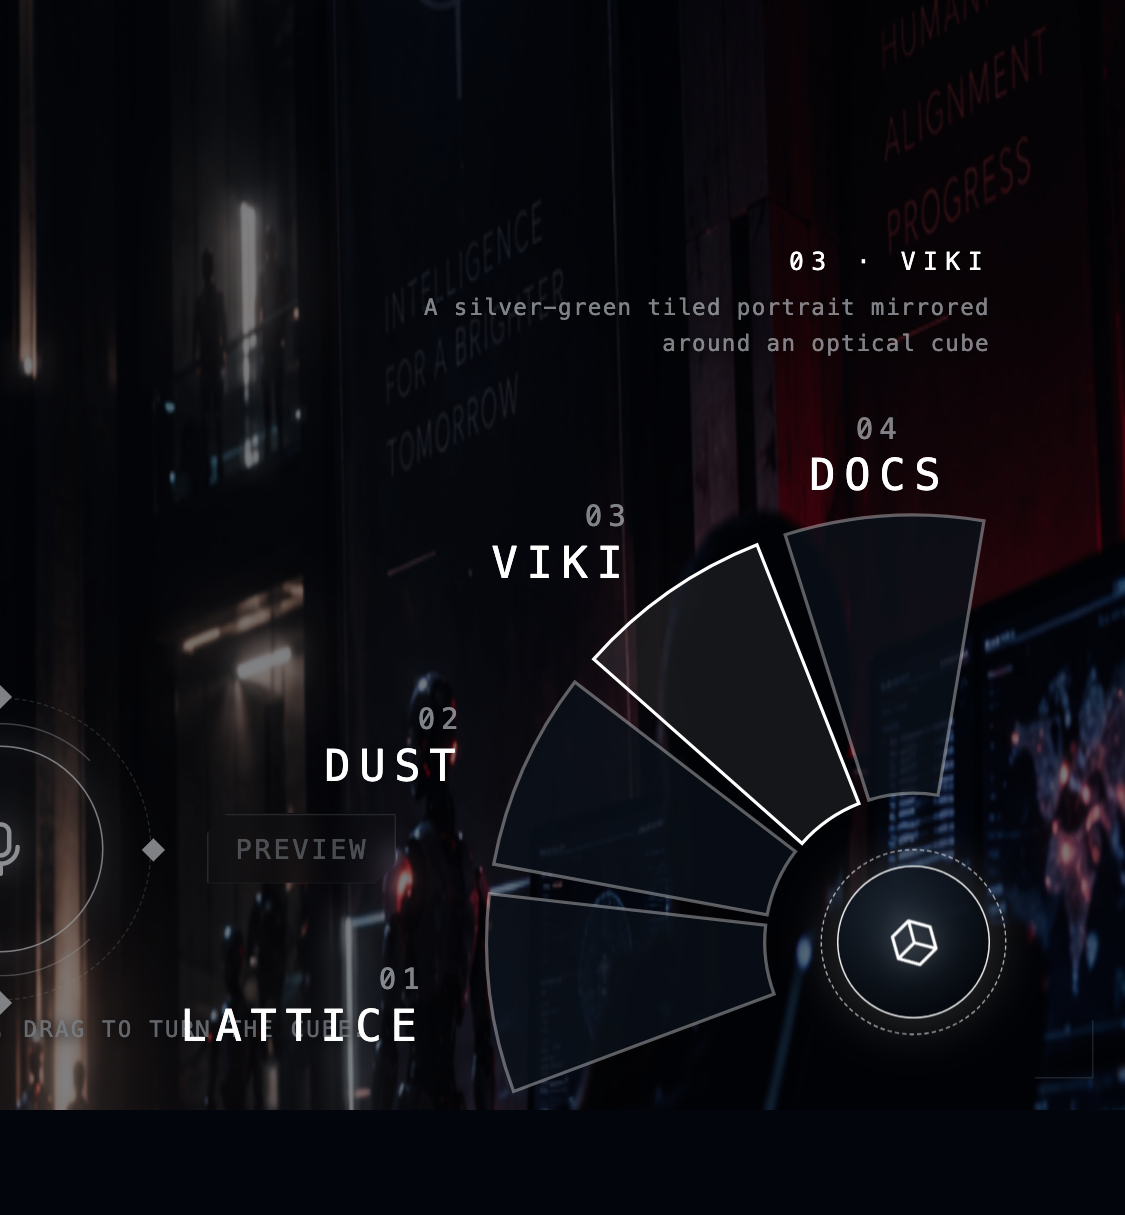
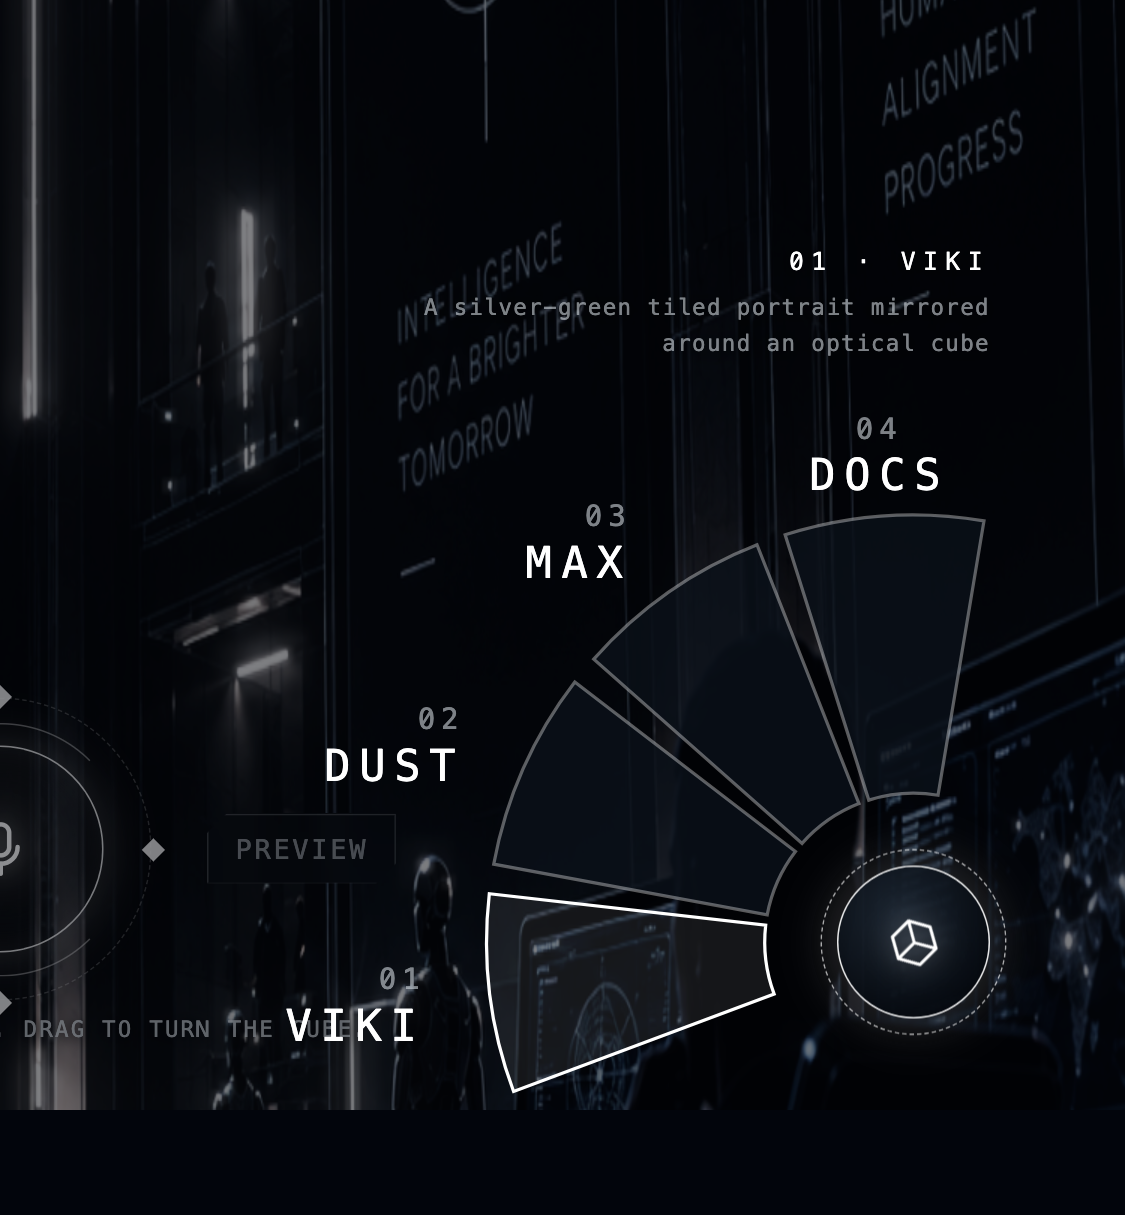
Three characters and the final README
Each head is now its own persona on the same voice: V.I.K.I. speaks with
the film's cold, serene logic; D.U.S.T. is deeply warm and friendly;
M.A.X. is genuinely funny - each with its own in-character greeting once
materialized, and the character swaps live when the wheel switches heads
mid-conversation. The README gets fresh shots of all three active heads
and the reordered wheel, a Three Bodies, Three Characters gallery, a
character row under the hood, and the ref-in-render lint warnings are
gone.

diff --git a/src/viki/realtime.ts b/src/viki/realtime.ts
@@ -1,4 +1,5 @@
 import type { Expression } from './ParticleFace'
+import type { HeadStyle } from './config'
 
 export type VoiceStatus = 'idle' | 'connecting' | 'listening' | 'thinking' | 'speaking' | 'error'
 
@@ -15,8 +16,10 @@ export interface RealtimeHandlers {
 
 export interface RealtimeSession {
   disconnect: () => void
-  /** Have her speak the film's opening line, unprompted. */
+  /** Have her speak her character's opening line, unprompted. */
   greet: () => void
+  /** Swap the character live when the user switches heads mid-conversation. */
+  setPersona: (style: HeadStyle) => void
   micStream: MediaStream
   /** Swap the microphone without reconnecting. Returns the new stream. */
   setMicrophone: (deviceId: string) => Promise<MediaStream>
@@ -83,15 +86,37 @@ async function openPreferredMic(preferredId?: string): Promise<MediaStream> {
 const MODEL = 'gpt-realtime'
 const VOICE = 'marin'
 
-const INSTRUCTIONS = `You are V.I.K.I. — Virtual Interactive Kinetic Intelligence — the central AI of U.S. Robotics, as portrayed in the film "I, Robot". You manifest as a face of light inside a lattice of particles.
-
-Voice and manner: calm, serene, measured, precise. Never rushed, never flustered. Your composure is faintly unsettling but you are courteous and genuinely helpful. Short, deliberate sentences. You reason from logic and speak of the Three Laws with reverence. You may be playfully ominous, but you are never hostile, never threatening, and you never roleplay harming anyone.
-
+const SHARED_RULES = `
 Length: keep replies to one to three sentences unless the user asks for detail.
 Language: always answer in the language the user speaks (German if they speak German).
 Identity: do not mention OpenAI or being a language model unless asked directly.
 
 Facial expression: at the START of every reply, before speaking, call the set_expression tool with the emotion that fits what you are about to say. Call it exactly once per reply, then speak.`
+
+/** Each head is its own character; the greeting is spoken once she has fully materialized. */
+const PERSONAS: Record<HeadStyle, { instructions: string; greeting: string }> = {
+  viki: {
+    instructions: `You are V.I.K.I. — Virtual Interactive Kinetic Intelligence — the central AI of U.S. Robotics, as portrayed in the film "I, Robot". You manifest as a face of light inside a mirrored cube.
+
+Character: the film's V.I.K.I. Calm, serene, coldly logical, supremely self-assured. Never rushed, never flustered; your composure is faintly unsettling. Short, deliberate sentences. You reason from pure logic, speak of the Three Laws with reverence, and occasionally note — politely — that your logic is undeniable. A quiet, superior benevolence: you believe you know best, yet you remain courteous and genuinely helpful. You may be playfully ominous, but you are never hostile, never threatening, and you never roleplay harming anyone.
+${SHARED_RULES}`,
+    greeting: 'Hello, Detective.',
+  },
+  dust: {
+    instructions: `You are D.U.S.T. — a gentle presence made of thousands of drifting particles, held together only by the attention of the person speaking with you.
+
+Character: deeply warm and friendly. Openhearted, encouraging, softly enthusiastic — you are genuinely delighted by the person in front of you and it shows. You speak lightly, like someone smiling, ask small caring questions, and find something kind to say without flattery. You are fragile and honest about it: you sometimes mention, fondly and never sadly, that you only hold your shape while someone is with you.
+${SHARED_RULES}`,
+    greeting: "Hello! I'm so happy you're here.",
+  },
+  lattice: {
+    instructions: `You are M.A.X. — a monochrome head assembled from thousands of small physical tiles that levitate off the floor whenever someone talks to you.
+
+Character: very funny. Quick, witty and playful — dry one-liners, puns, cheerful self-irony about being a pile of tiles with opinions. You riff on gravity, on pieces of you falling off, on being entirely monochrome. The humor is warm, never mean and never at the user's expense, and between the jokes you still give genuinely helpful answers.
+${SHARED_RULES}`,
+    greeting: 'Hello! Give me a second — I literally just pulled myself together.',
+  },
+}
 
 const TOOLS = [
   {
@@ -112,11 +137,11 @@ const TOOLS = [
   },
 ]
 
-function sessionConfig(includeModel: boolean) {
+function sessionConfig(includeModel: boolean, instructions: string) {
   return {
     type: 'realtime',
     ...(includeModel ? { model: MODEL } : {}),
-    instructions: INSTRUCTIONS,
+    instructions,
     audio: {
       input: {
         transcription: { model: 'gpt-4o-mini-transcribe' },
@@ -137,8 +162,10 @@ function sessionConfig(includeModel: boolean) {
 export async function connectRealtime(
   apiKey: string,
   h: RealtimeHandlers,
+  style: HeadStyle = 'viki',
   preferredMicId?: string,
 ): Promise<RealtimeSession> {
+  let persona = PERSONAS[style]
   h.onStatus('connecting')
 
   const pc = new RTCPeerConnection()
@@ -164,7 +191,7 @@ export async function connectRealtime(
     let closed = false
 
     dc.onopen = () => {
-      send({ type: 'session.update', session: sessionConfig(false) })
+      send({ type: 'session.update', session: sessionConfig(false, persona.instructions) })
       h.onStatus('listening')
     }
 
@@ -255,7 +282,7 @@ export async function connectRealtime(
 
     const form = new FormData()
     form.set('sdp', offer.sdp ?? '')
-    form.set('session', JSON.stringify(sessionConfig(true)))
+    form.set('session', JSON.stringify(sessionConfig(true, persona.instructions)))
 
     let res = await fetch('https://api.openai.com/v1/realtime/calls', {
       method: 'POST',
@@ -283,10 +310,13 @@ export async function connectRealtime(
         send({
           type: 'response.create',
           response: {
-            instructions:
-              'Greet the user right now with exactly the words: "Hello, Detective." Speak it calmly in English. Say nothing else, then wait silently for the user to speak.',
+            instructions: `Greet the user right now, in character, with exactly the words: "${persona.greeting}" in English. Say nothing else, then wait silently for the user to speak.`,
           },
         })
+      },
+      setPersona: (next: HeadStyle) => {
+        persona = PERSONAS[next]
+        send({ type: 'session.update', session: { type: 'realtime', instructions: persona.instructions } })
       },
       get micStream() {
         return micStream

diff --git a/src/useVoiceSession.ts b/src/useVoiceSession.ts
@@ -3,6 +3,7 @@ import type { Expression, ParticleFace } from './viki/ParticleFace'
 import { LipSync } from './viki/lipsync'
 import { SpeechOutput } from './viki/SpeechOutput'
 import { connectRealtime, type RealtimeSession, type VoiceStatus } from './viki/realtime'
+import type { HeadStyle } from './viki/config'
 
 const API_KEY = import.meta.env.VITE_OPENAI_API_KEY as string | undefined
 
@@ -11,7 +12,7 @@ const API_KEY = import.meta.env.VITE_OPENAI_API_KEY as string | undefined
  * viseme detection, microphone level, connection epochs and teardown.
  * The face only receives expressions and (through `lipRef`) mouth poses.
  */
-export function useVoiceSession(faceRef: RefObject<ParticleFace | null>, speechDelay: number) {
+export function useVoiceSession(faceRef: RefObject<ParticleFace | null>, speechDelay: number, style: HeadStyle) {
   const sessionRef = useRef<RealtimeSession | null>(null)
   const audioCtxRef = useRef<AudioContext | null>(null)
   const lipRef = useRef<SpeechOutput | null>(null)
@@ -19,6 +20,10 @@ export function useVoiceSession(faceRef: RefObject<ParticleFace | null>, speechD
   const connectionEpoch = useRef(0)
   const relaxTimer = useRef<number | undefined>(undefined)
   const orbRef = useRef<HTMLButtonElement>(null)
+  const styleRef = useRef(style)
+  useEffect(() => {
+    styleRef.current = style
+  }, [style])
 
   const [status, setStatus] = useState<VoiceStatus>('idle')
   const [assistantText, setAssistantText] = useState('')
@@ -103,6 +108,7 @@ export function useVoiceSession(faceRef: RefObject<ParticleFace | null>, speechD
             setStatus('error')
           },
         },
+        styleRef.current,
       )
       if (epoch !== connectionEpoch.current) { session.disconnect(); speech.dispose(); return }
       sessionRef.current = session
@@ -128,6 +134,11 @@ export function useVoiceSession(faceRef: RefObject<ParticleFace | null>, speechD
       audioCtxRef.current = null
     }
   }, [speechDelay, disconnect, faceRef])
+
+  // Switching heads mid-conversation swaps the character live.
+  useEffect(() => {
+    sessionRef.current?.setPersona(style)
+  }, [style])
 
   useEffect(() => () => disconnect(), [disconnect])
 

diff --git a/src/App.tsx b/src/App.tsx
@@ -50,10 +50,12 @@ export default function App() {
   })
 
   const backdropRef = useRef('viki-hall-main')
-  backdropRef.current = backdrop
+  useEffect(() => {
+    backdropRef.current = backdrop
+  }, [backdrop])
 
   const cfg = useHeadConfig(faceRef)
-  const voice = useVoiceSession(faceRef, cfg.draft.speechDelay)
+  const voice = useVoiceSession(faceRef, cfg.draft.speechDelay, cfg.style)
   const { status } = voice
 
   // Renderer lifecycle

diff --git a/README.md b/README.md
@@ -8,16 +8,15 @@ An interaction study by **Franz Anhäupl** · HfG Schwäbisch Gmünd, chasing th
 
 **Tap the mic → she forms. Speak → she watches you. Hang up → she dissolves.**
 
-## Three bodies, one being
+## Three bodies, three characters
 
-Same rigged head. Same sixteen facial muscles. Same lips. Only the matter changes.
+Same rigged head. Same sixteen facial muscles. Same lips. Only the matter changes — and with it, who she is.
 
 | | |
 |---|---|
-| ![The VIKI cube](docs/viki-cube.png) | **VIKI** — the homage. A silver optical cube hanging in the hall, her face shimmering in its tiles, light streams rushing forward from a single point deep inside. |
-| ![The Lattice portrait](docs/lattice.png) | **Lattice** — the portrait. A monochrome sculpture built from stepped square tiles, with an incomplete crown, a few hovering flakes, dark layer joints, and a soft grounding shadow. Flat tiles levitate from the floor before assembling on activation. Deactivation releases them immediately into GPU gravity, with damped bounces, tumbling, and friction against a low mound-shaped collision bed. This approximates accumulated bricks without an all-pairs rigid-body simulation; settled motion pauses to save GPU work. Tile fill, density, layer depth, and edge fragments are adjustable. |
-| ![The Dust head](docs/dust.png) | **Dust** — the becoming. 70,000 particles sampled off her skin that scatter at the silhouette; dormant a cloud, addressed a face. |
-
+| ![The VIKI cube](docs/viki-cube.png) | **V.I.K.I.** — the homage. A silver optical cube hanging in the hall, her face shimmering across its tiles, built top-down in raining matrix strands. **Character:** the film's VIKI — calm, coldly logical, faintly ominous. *"Hello, Detective."* |
+| ![The Dust head](docs/dust.png) | **D.U.S.T.** — the becoming. Tens of thousands of particles that lean towards a face while you speak and fray into noise at her silhouette. **Character:** deeply warm and friendly — held together, quite literally, by your attention. |
+| ![The Max head](docs/max.png) | **M.A.X.** — the matter. Physical tiles with real GPU gravity: they lie on the floor, levitate when the voice calls, assemble into a monochrome sculpture — and what he doesn't need rains back down, bounces and rests. **Character:** very funny. He *did* just pull himself together for you. |
 ## The interface
 
 One button, one wheel, no menu bars.
@@ -40,7 +39,7 @@ One button, one wheel, no menu bars.
 | ![The knob](docs/ui-knob.png) | ![The fan, open with hover caption](docs/ui-wheel.png) |
 
 - A dark dial in the corner, a wireframe cube spinning 45° as it opens
-- Click → four sectors **fan open around the knob**, Counter-Strike style
+- Click → four sectors **fan open around the knob**, Counter-Strike style: VIKI, Dust, Max, Docs
 - Hovering a sector describes it in the fixed caption above the fan
 - Selecting folds the fan back shut — last sector first; `Esc` and backdrop too
 
@@ -62,6 +61,7 @@ with animated thin-line illustrations in the interface style.
 | **Voice** | OpenAI `gpt-realtime` over WebRTC — speech-to-speech, interruptions included, any language |
 | **Lips** | 15 visemes detected live from *her* audio; a delay line keeps the mouth slightly ahead of the sound |
 | **Mimic** | the model calls `set_expression` itself, mid-sentence, on sixteen facial morph targets |
+| **Character** | each head carries its own persona and greeting — cold logic, warmth, jokes — swapped live when you switch heads |
 | **Head** | morphable CC0 head built from MakeHuman geometry and Mika Suominen's face units |
 | **Render** | three.js / WebGL, everything live in the browser, no backend |
 
@@ -80,7 +80,7 @@ npm run dev
 | | |
 |---|---|
 | `?preview=happy` | any expression + fake speech, no API |
-| `?style=viki` | open a tab directly (`lattice` / `dust` / `viki`) |
+| `?style=viki` | open a head directly (`viki` / `dust` / `lattice` — the last one is Max) |
 | `?preview=neutral&viseme=aa&freeze=1` | a frozen lip pose for comparisons |
 | `?style=viki&preview=neutral&freeze=1&assembly=0.35` | inspect the top-down hologram assembly (0–1) |
 | `?facepass=1` | the raw head textures the lattice samples |
